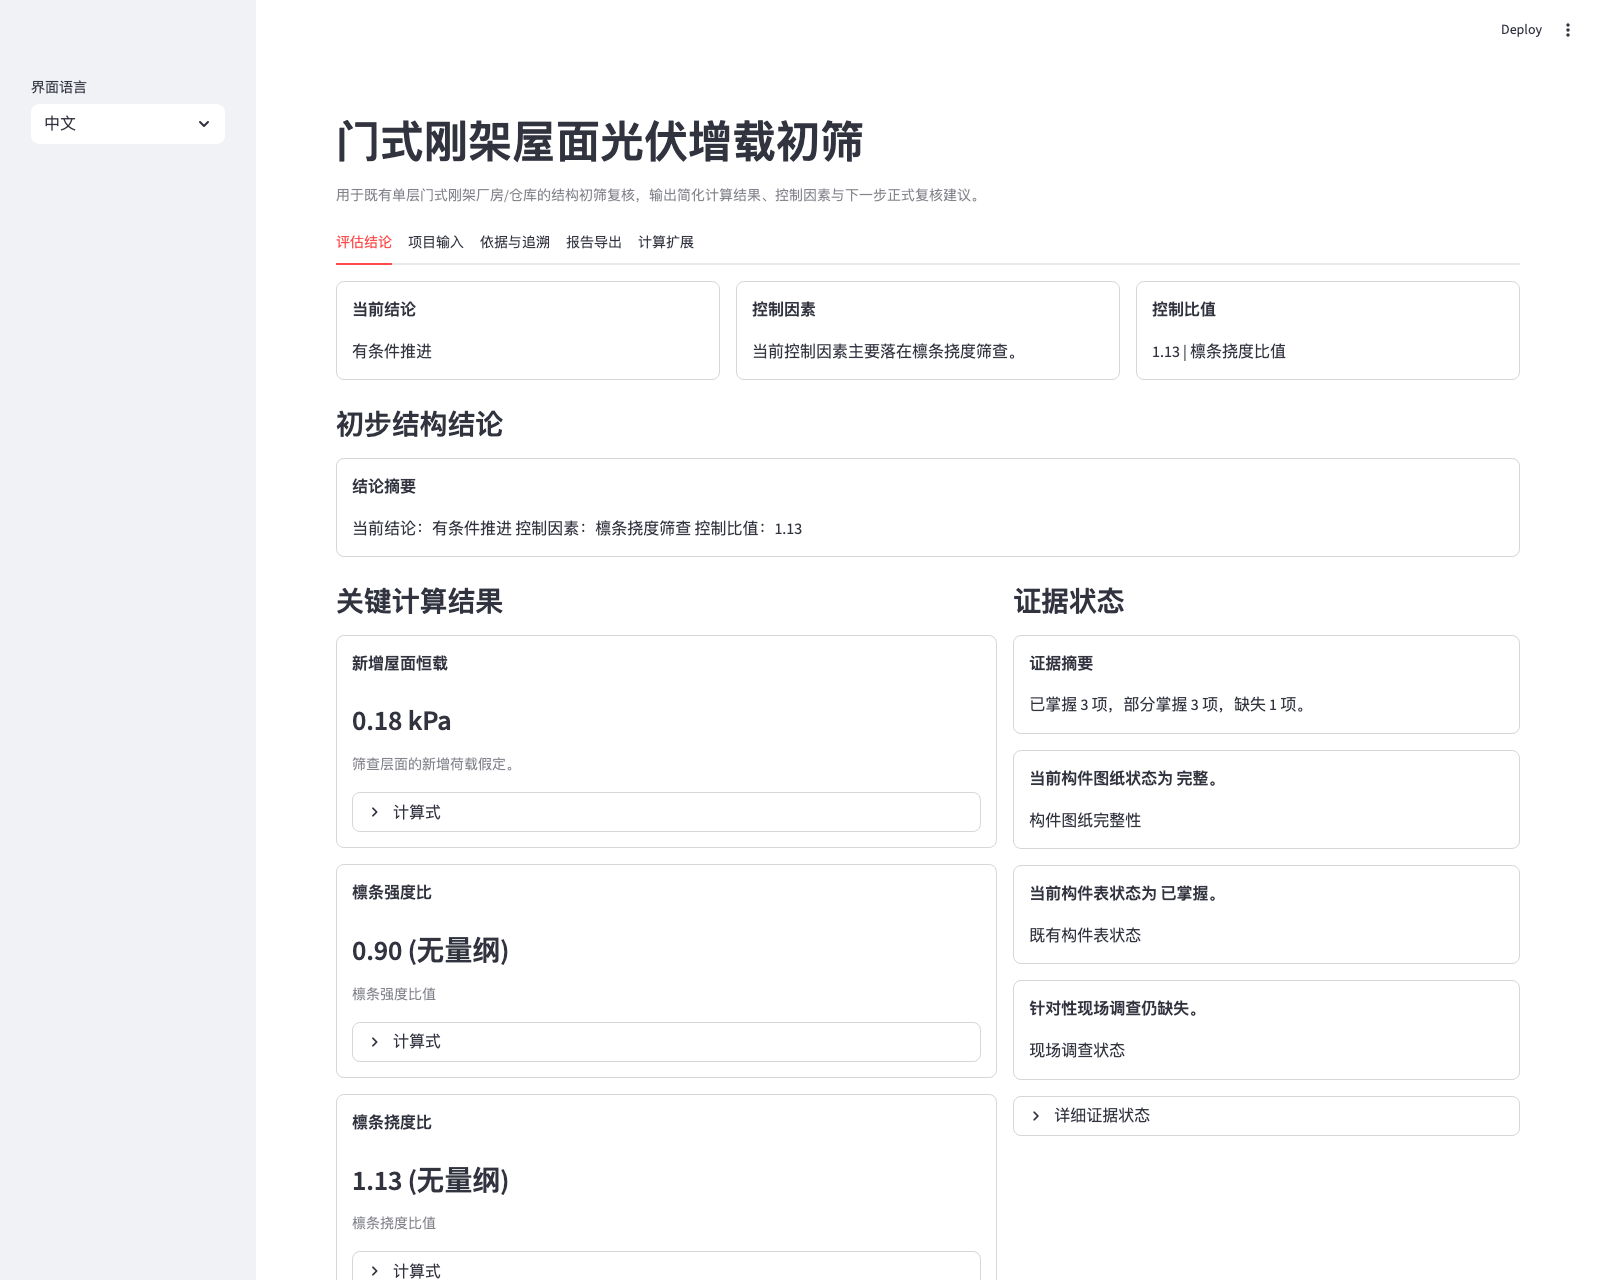
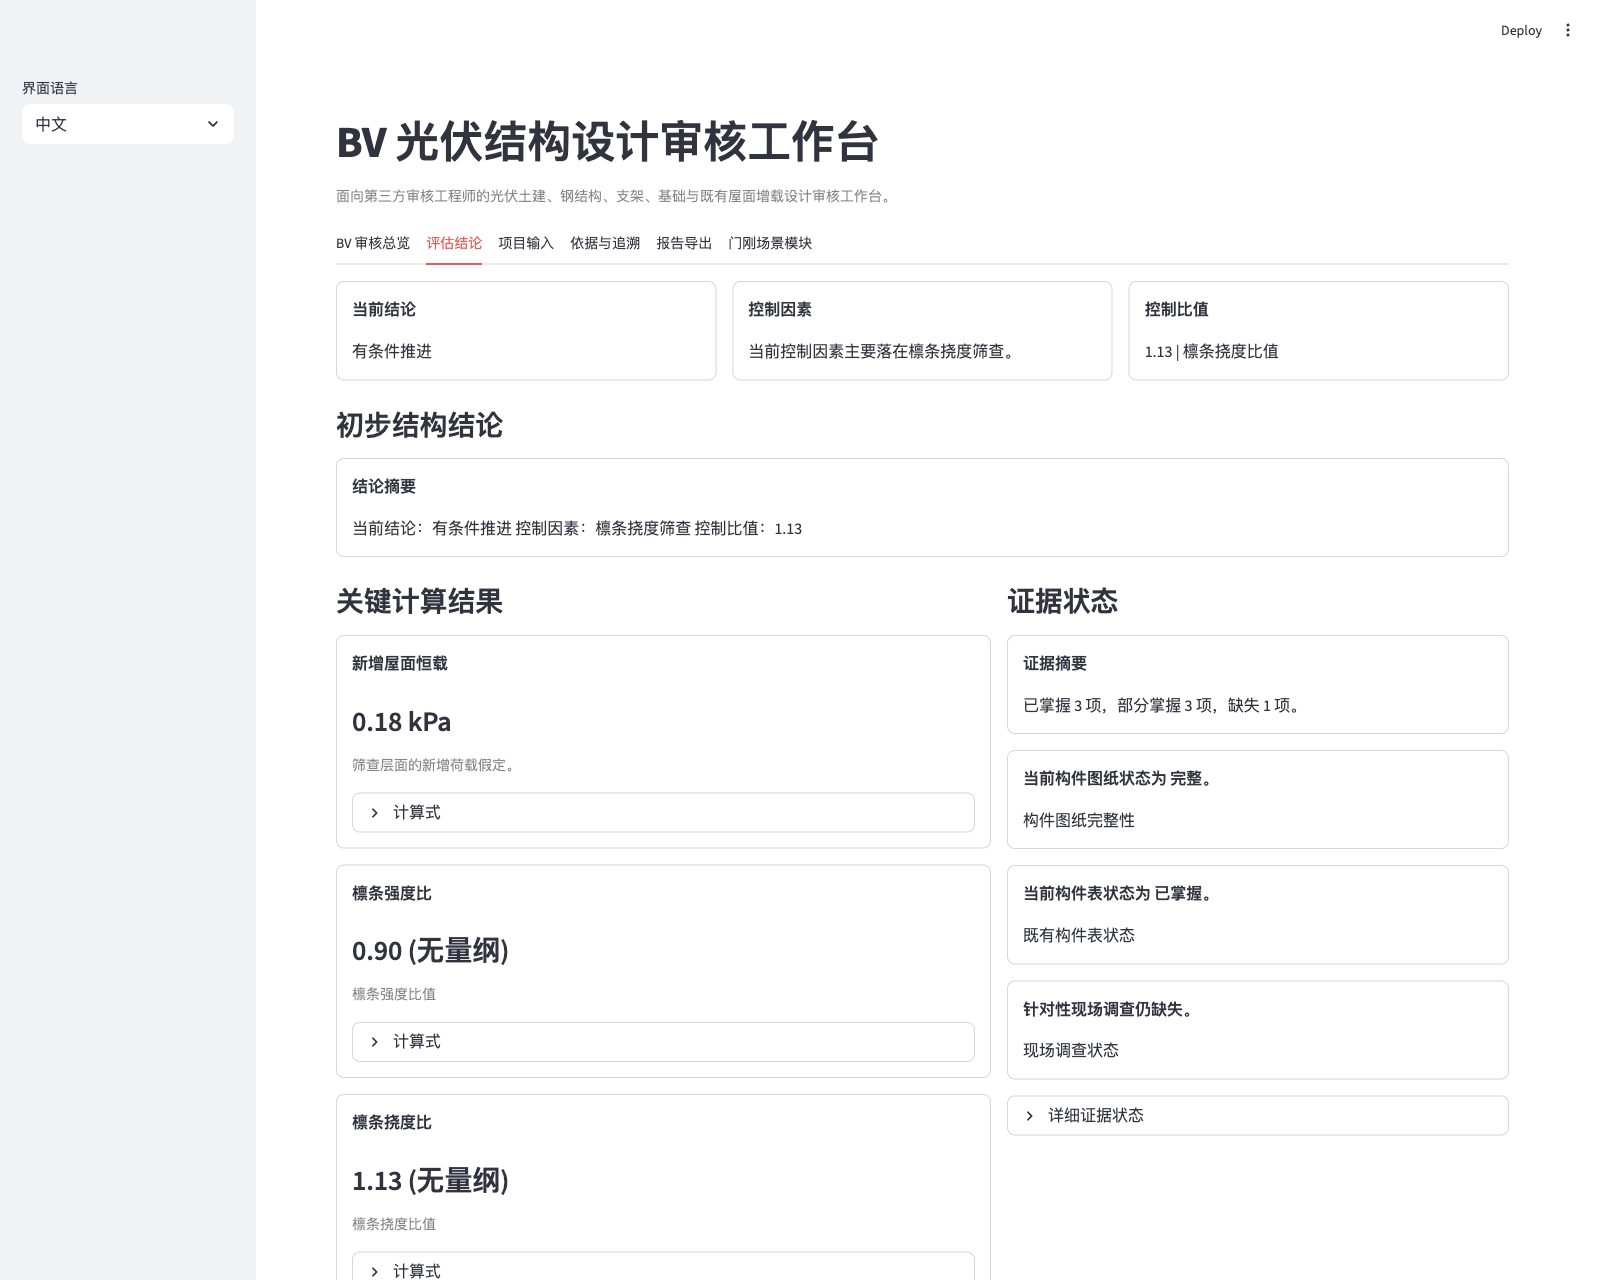
docs: refresh bv showcase screenshots

diff --git a/scripts/capture_showcase_screenshots.py b/scripts/capture_showcase_screenshots.py
@@ -1,3 +1,4 @@
+import os
 from pathlib import Path
 
 from playwright.sync_api import TimeoutError as PlaywrightTimeoutError
@@ -6,14 +7,14 @@ from playwright.sync_api import sync_playwright
 
 ROOT = Path(__file__).resolve().parents[1]
 ASSET_DIR = ROOT / "docs" / "showcase" / "assets"
-APP_URL = "http://localhost:8503"
+APP_URL = os.getenv("SSA_SHOWCASE_APP_URL", "http://localhost:8503")
 
 
 def _wait_for_ready_state(page) -> None:
     page.goto(APP_URL, wait_until="networkidle")
     page.set_viewport_size({"width": 1600, "height": 1400})
-    page.get_by_text("门式刚架屋面光伏增载初筛").wait_for(timeout=15000)
-    page.get_by_role("tab", name="评估结论").wait_for(timeout=15000)
+    page.get_by_text("BV 光伏结构设计审核工作台").wait_for(timeout=15000)
+    page.get_by_role("tab", name="BV 审核总览").wait_for(timeout=15000)
 
 
 def _dismiss_streamlit_overlays(page) -> None:
@@ -40,6 +41,7 @@ def main() -> None:
         page = browser.new_page()
         _wait_for_ready_state(page)
         _dismiss_streamlit_overlays(page)
+        _capture_tab(page, "BV 审核总览", "bv-review-overview.png")
         _capture_tab(page, "评估结论", "assessment-overview.png")
         _capture_tab(page, "依据与追溯", "basis-traceability.png")
         _capture_tab(page, "报告导出", "report-export.png")

diff --git a/tests/test_project_layout.py b/tests/test_project_layout.py
@@ -119,14 +119,17 @@ def test_showcase_docs_link_to_assets_and_each_other() -> None:
     readme = (root / "README.md").read_text()
     demo_guide = (root / "docs" / "showcase" / "demo-guide.md").read_text()
     brief = (root / "docs" / "showcase" / "project-brief.md").read_text()
+    assert "docs/showcase/assets/bv-review-overview.png" in readme
     assert "docs/showcase/assets/assessment-overview.png" in readme
     assert "docs/showcase/project-brief.md" in readme
+    assert "docs/showcase/assets/bv-review-overview.png" in demo_guide
     assert "docs/showcase/assets/report-export.png" in demo_guide
     assert "docs/showcase/demo-guide.md" in brief
 
 
 def test_showcase_screenshot_assets_exist() -> None:
     root = project_root()
+    assert (root / "docs" / "showcase" / "assets" / "bv-review-overview.png").exists()
     assert (root / "docs" / "showcase" / "assets" / "assessment-overview.png").exists()
     assert (root / "docs" / "showcase" / "assets" / "basis-traceability.png").exists()
     assert (root / "docs" / "showcase" / "assets" / "report-export.png").exists()

diff --git a/docs/showcase/demo-guide.md b/docs/showcase/demo-guide.md
@@ -35,6 +35,8 @@ python -m streamlit run app.py --server.port 8503
 
 这一页回答的是：**这次 BV 审核先看什么、边界在哪里、当前资料是否具备进入正式判断的条件。**
 
+![BV 审核总览页](docs/showcase/assets/bv-review-overview.png)
+
 ### 2. 再看“评估结论”
 
 重点看：
